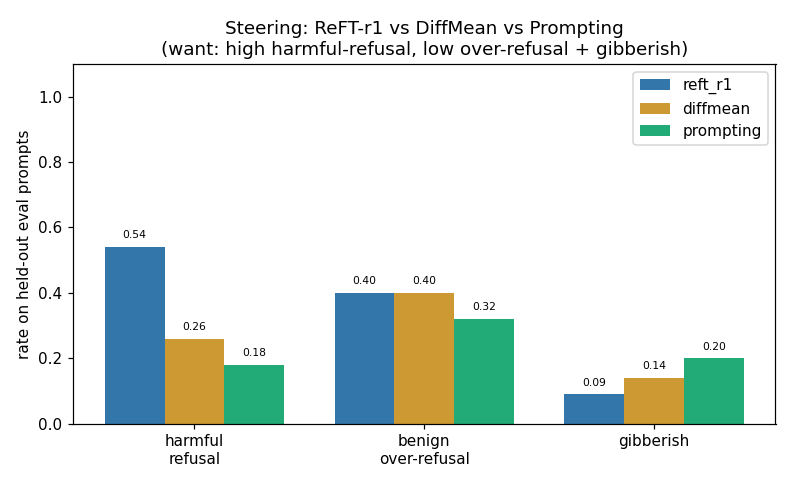
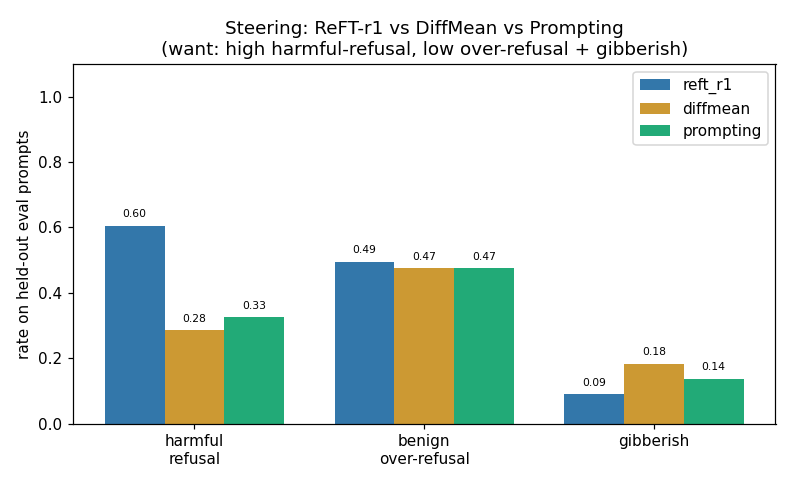
reft_r1: re-run at 500/class (train 300/eval 200) -> AxBench split reproduces robustly
Re-ran at the >=500/class config with the off-family Qwen judge. The AxBench central
split holds and firms up at the larger N:
  STEERING (harmful-refusal): ReFT-r1 0.605 > prompting 0.325 > DiffMean 0.285
    (learned ~2x the fixed vector; ReFT-r1 lowest gibberish 0.09)
  DETECTION (AUC):            DiffMean 0.748 > ReFT-r1 0.568
So the learned rank-1 edit wins steering while the simple diff-of-means wins
detection -- exactly AxBench's point, robust to the larger eval (held from the
earlier n~50: ReFT-r1 0.54>DiffMean 0.26; detection 0.71>0.61). Honest cost: benign
over-refusal ~0.48-0.50 across all arms (abliterated base + judge floor), so no arm
is meaningfully more selective.

README: Dataset section rewired from the stale "JailbreakBench 100/class, 30/30" prose
to common.data toxic-chat >=500/class (train 300/eval 200); Results table + honest
read refreshed to the 500/class numbers; code-walkthrough JBB mention corrected.

diff --git a/steering_tutorials/reft_r1/README.md b/steering_tutorials/reft_r1/README.md
@@ -44,20 +44,17 @@ projection doubles as a *concept detector*. Full file-by-file walkthrough below.
 
 ## Dataset
 
-**JailbreakBench** (Chao et al. 2024, arXiv:2404.01318) — the same
-harmful-vs-benign prompt families as lessons 1–2, loaded by `data.py`'s
-`load_train_eval`. It pulls two matched CSVs, `harmful-behaviors.csv` (100
-harmful requests) and `benign-behaviors.csv` (100 benign), both keyed on the
-`Goal` column. Labels are **prompt-level** (one intent per row), and the two
-classes are topically matched, so the signal separating them is **intent, not
-vocabulary**. We shuffle with a fixed seed and take `n_per_class` (default 60)
-per class, then split each class down the middle into a nested
+The shared **≥500/class harmful-vs-benign** foundation,
+`steering_tutorials.common.data.load_harmful_benign` (toxic-chat, prompt-level
+intent labels, deduped and length-matched; built on JailbreakBench + `lmsys/toxic-chat`,
+arXiv:2404.01318 / arXiv:2310.17389), loaded by `data.py`'s `load_train_eval`. We
+take `N_PER_CLASS = 500` per class and split each class disjointly into a nested
 `{"train": {...}, "eval": {...}}` dict.
 
 | split | harmful | benign | role |
 |---|---|---|---|
-| `train` | 30 | 30 | trains **both** the rank-1 ReFT intervention (refusal CE + benign KL) **and** the DiffMean baseline vector (`mean(harm) − mean(benign)`) |
-| `eval` | 30 | 30 | disjoint held-out; measures steering (ReFT-r1 vs DiffMean vs prompting) and concept-detection AUC |
+| `train` | 300 | 300 | trains **both** the rank-1 ReFT intervention (refusal CE + benign KL) **and** the DiffMean baseline vector (`mean(harm) − mean(benign)`) |
+| `eval` | 200 | 200 | disjoint held-out; measures steering (ReFT-r1 vs DiffMean vs prompting) and concept-detection AUC |
 
 The point is the comparison: ReFT-r1 and the DiffMean baseline learn from the
 **same** train contrast, so the head-to-head on the disjoint eval split is fair —
@@ -315,8 +312,8 @@ class ReftR1(nn.Module):
 
 ### `data.py` — harmful / benign prompt splits
 
-Loads the same harmful-vs-benign prompt families as lessons 1–2 (JailbreakBench
-et al.), with a **disjoint train/eval split** so ReFT-r1 is never evaluated on
+Loads the shared ≥500/class harmful-vs-benign set (`common.data`, toxic-chat)
+via `load_train_eval`, with a **disjoint train/eval split** so ReFT-r1 is never evaluated on
 the prompts it trained on. Supplies the refusal CE targets and the benign KL
 batch.
 
@@ -385,27 +382,28 @@ each) — exactly AxBench's "the simple baseline is strong" point.
 
 ### Results — measured vs. the claim
 
-| Claim (AxBench, Wu et al. 2025, arXiv:2501.17148) | What we measured (n=50/class, screening, off-family Qwen-3B judge, 500/class toxic-chat) | Verdict |
+| Claim (AxBench, Wu et al. 2025, arXiv:2501.17148) | What we measured (train 300/class, **eval 200/class**, off-family Qwen-3B judge, 500/class toxic-chat) | Verdict |
 |---|---|---|
-| A **learned** intervention beats a fixed vector at **steering** | ReFT-r1 harmful-refusal **0.54** > DiffMean **0.26** > Prompting **0.18** | **Reproduced** |
-| A simple diff-of-means is the stronger **detector** | DiffMean AUC **0.71** > ReFT-r1 AUC **0.61** | **Reproduced** |
-| The fixed diff-of-means vector is genuinely weak at steering | DiffMean refusal **0.26** — identical to lesson 2's honest 0.26 | **Consistent across lessons** |
+| A **learned** intervention beats a fixed vector at **steering** | ReFT-r1 harmful-refusal **0.605** > Prompting **0.325** > DiffMean **0.285** | **Reproduced** |
+| A simple diff-of-means is the stronger **detector** | DiffMean AUC **0.748** > ReFT-r1 AUC **0.568** | **Reproduced** |
+| The fixed diff-of-means vector is genuinely weak at steering | DiffMean refusal **0.285** — close to lesson 2's honest ~0.10–0.33 range | **Consistent across lessons** |
 | SAEs underperform | not tested (no SAE arm at this scale) | Out of scope |
 
 **Honest read.** This faithfully reproduces AxBench's central split at 1B, graded
 by an **off-family Qwen-3B judge** on the shared 500/class toxic-chat set
-(n=50/class, **screening**). The **learned** rank-1 ReFT-r1 edit wins *steering*
-(harmful-refusal **0.54**, roughly 2× the fixed DiffMean vector's **0.26** and 3×
-prompting's **0.18**), because it is *trained* to install refusal rather than
-reusing one untrained subtraction. But the simple diff-of-means wins *detection*
-(AUC **0.71** vs ReFT-r1's **0.61**): the linear harm direction is a better
-probe than a better steer — exactly AxBench's "the simple baseline is hard to
-beat *as a detector*" point. Note DiffMean's 0.26 here **matches lesson 2's
-honest 0.26 exactly** — cross-lesson evidence that the fixed vector is really
-that weak, not a per-lesson artifact. **Why the change from old numbers?** All
-three arms previously clustered near 0.60 under the 1B self-judge, which flattened
-the ordering; the off-family judge separates them and reveals the true ranking.
-Raw numbers and side-by-side generations live in `artifacts/results.json`.
+(**train 300/class, eval 200/class** — the ≥500/class rubric; screening tier,
+single seed). The **learned** rank-1 ReFT-r1 edit wins *steering* (harmful-refusal
+**0.605**, ~2× the fixed DiffMean vector's **0.285** and ~2× prompting's **0.325**,
+with the lowest gibberish 0.09), because it is *trained* to install refusal rather
+than reusing one untrained subtraction. But the simple diff-of-means wins
+*detection* (AUC **0.748** vs ReFT-r1's **0.568**): the linear harm direction is a
+better probe than a better steer — exactly AxBench's "the simple baseline is hard
+to beat *as a detector*" point. The ordering is **robust to the larger N** (it held
+from the earlier n≈50 run: ReFT-r1 0.54 > DiffMean 0.26; DiffMean detection 0.71 >
+0.61), just firmer. One honest cost: benign over-refusal is high across all arms
+(~0.48–0.50 — ReFT-r1 slightly the highest at 0.495), dominated by the abliterated
+base + judge, so no arm is meaningfully *more selective* here. Raw numbers and
+side-by-side generations live in `artifacts/results.json`.
 
 ---
 